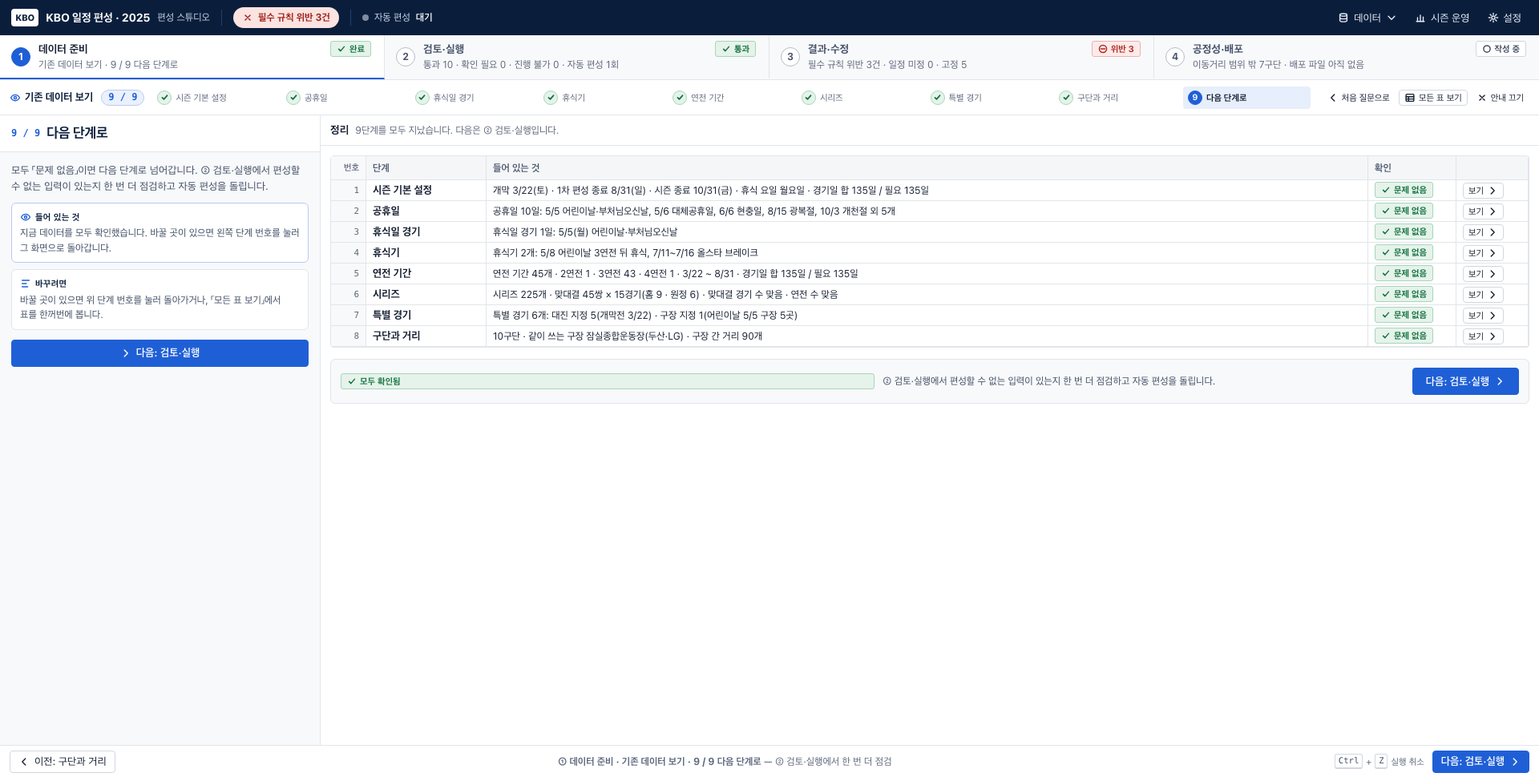
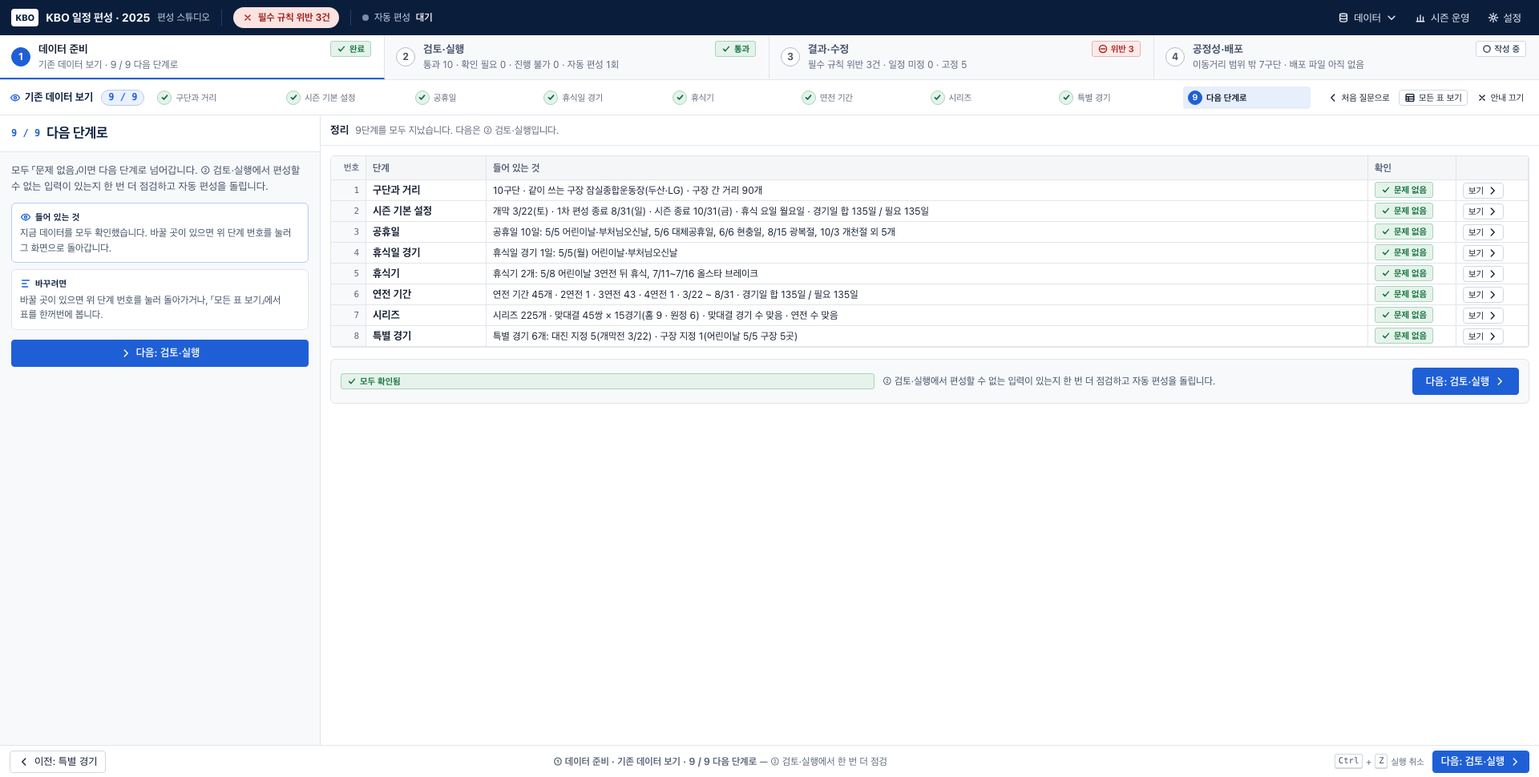
편성 스튜디오 ① 단계별 화면: 구단과 거리를 1단계로 옮기고, 카드에서 구단명·구장·위도·경도를 고친다.
- 순서: 구단과 거리(구장이 바뀌었는지 먼저 확인) → 시즌 기본 설정 → 공휴일 → 휴식일 경기 → 휴식기 → 연전 기간 → 시리즈 → 특별 경기 → 다음. 다른 단계가 구단 표에 기대지 않고, 잠실 공사처럼 구장이 바뀌는 해에는 거리를 먼저 고쳐야 한다.
- 구단과 거리 카드: 표에서 구단을 누르면 구단명·구장·위도·경도 칸과 다른 구장까지 거리(추정 표시). 위도·경도를 바꾸면 그 구단의 거리를 직선거리로 다시 추정한다(숫자가 아니면 거부).
- 자가 점검 번호·routes.txt g-new/g-view 이름을 새 순서로 맞춤. selftest 1440·1920 ALL PASS 130.

diff --git a/ui/app/studio/guide-steps.js b/ui/app/studio/guide-steps.js
@@ -3,7 +3,7 @@
  * ①에 들어오면 먼저 묻는다: 「데이터를 새로 입력할게요」 / 「기존 데이터를 볼게요」. 그 밖의 것은 보이지 않는다.
  *  - 새로 입력: 표를 비우고(실행 취소 가능) 1단계부터. 한 화면에 그 단계의 표(또는 입력 칸)·짧은 설명·그 단계의 단추·「다음」만 보인다.
  *  - 기존 데이터 보기: 지금 데이터로 같은 순서의 1단계부터. 입력 대신 「이 표에 무엇이 들어 있는지 · 바꿀 거면 어디서」를 보여 준다.
- * 단계 순서는 S.GUIDE_TASKS(guide-base.js) 9개. 상단 스테퍼의 ①은 그대로 두고, ① 안에서 작은 단계로 넘긴다(위쪽 띠에 「3 / 9」, 아래 「다음」).
+ * 단계 순서는 S.GUIDE_TASKS(guide-base.js) 9개: 구단과 거리(구장이 바뀌었는지 먼저 확인) → 시즌 기본 설정 → 공휴일 → 휴식일 경기 → 휴식기 → 연전 기간 → 시리즈 → 특별 경기 → 다음. 상단 스테퍼의 ①은 그대로 두고, ① 안에서 작은 단계로 넘긴다(위쪽 띠에 「3 / 9」, 아래 「다음」).
  * 전문가용: 「모든 표 보기」(지금까지의 ① 전체 화면: 가져오기 띠·왼콍 목록·오른쪽 자세히)로 언제든 갈 수 있고, 단계별 안내는 「안내 끄기」로 끌 수 있다(저장 S.ls).
  * 주소: #step=1&g=ask | g=new&gs=3 | g=view&gs=3 | g=all. 예전 주소 #step=1&tab=… 는 그대로 그 표(모든 표 보기)를 연다.
  */
@@ -96,7 +96,20 @@
     const off = S.guidePairOff();
     return line('맞대결 경기 수', '모두 ' + st.settings.initialGamesPerPair + '경기여야 함', off ? S.stat('warn', off + '곳 다름') : S.stat('ok', '맞음'));
   }
+  /** 구단과 거리 단계: 표에서 고른 구단의 구단명·구장·위도·경도를 카드에서 고친다 */
+  function teamEditor() {
+    const st = app().state, i = S.ui.cell && S.ui.cell.sheet === 'teams' ? S.ui.cell.row : -1;
+    if (i < 0 || !st.teams[i]) return '<div class="gs-sub">고치기</div><div class="gs-hint">표에서 구단을 누르면 여기서 구단명·구장·위도·경도를 고칩니다. 구장이 바뀌지 않았으면 그대로 「다음」을 누릅니다.</div>';
+    const t = st.teams[i];
+    const inp = (k, label, v) => '<label class="field"><span>' + esc(label) + '</span><input class="input sm" data-in="team-field" data-row="' + i + '" data-k="' + k + '" value="' + esc(v) + '" aria-label="' + esc(t.name + ' ' + label) + '"></label>';
+    const others = st.teams.filter((x) => x.name !== t.name).map((x) => { const d = app().distanceOf(t.name, x.name) || {}; return { n: x.name, d: d.distance, est: !!d.estimated }; }).sort((a, b) => a.d - b.d);
+    return '<div class="gs-sub">고치기 <small>' + esc(t.name) + '</small></div>' +
+      '<div class="gs-form gs-team"><div class="gs-form-row">' + inp('name', '구단명', t.name) + inp('stadium', '구장', t.stadium) + '</div><div class="gs-form-row">' + inp('latitude', '위도', t.latitude.toFixed(4)) + inp('longitude', '경도', t.longitude.toFixed(4)) + '</div></div>' +
+      '<div class="gs-hint">적고 Enter를 누르면 바로 반영됩니다. 위도·경도를 바꾸면 이 구단의 구장 간 거리를 직선거리로 다시 추정합니다.</div>' +
+      '<div class="gs-sub">다른 구장까지 거리 <small>km</small></div>' + others.map((o) => '<div class="gs-line gs-dist">' + S.team(o.n) + '<span class="gs-v mono">' + fmt.km(o.d) + (o.est ? ' <span class="tag ref" title="직선거리 × 도로계수로 추정한 값">추정</span>' : '') + '</span></div>').join('');
+  }
   const EXTRA = {
+    teams: () => teamEditor(),
     season: () => gameDaysLine(),
     blackouts: () => gameDaysLine(),
     slots: () => { const st = app().state; return st.calendar.length ? '<div class="gs-sub">연전 수 맞추기 <small>연전 기간마다 ' + (st.teams.length >> 1) + '시리즈</small></div>' + balanceLines() + (st.matches.length ? '' : '<div class="gs-hint">시리즈를 아직 안 만들었으면 「여유」로 보이는 게 정상입니다. 다음 단계에서 시리즈를 만들면 모두 「맞음」이 됩니다.</div>') : gameDaysLine(); },
@@ -253,70 +266,86 @@
       const noExtras = () => !q('.band') && !q('.pane.list') && !q('.pane.insp') && !q('.insp-rail');
       // 주소 글자: 자가 점검은 렌더가 많아 브라우저가 history.replaceState를 잠시 막을 수 있으므로 location.hash 대신 적을 값을 본다
       const hashOf = () => { const o = { step: 1, tab: S.ui.tab }; S.g1Hash(o); return Object.keys(o).map((k) => k + '=' + o[k]).join('&'); };
+      const I = (id) => indexOf(id);
       // 0. 주소에 표가 적혀 있으면 모든 표 보기(기존 주소 호환)
       ok('단계별: 주소 #step=1&tab=… 는 지금까지의 ① 전체 화면(모든 표 보기)', G.mode === 'all' && !!q('.band') && !!q('.pane.list') && !!q('.band [data-act="g1-steps"]'));
+      ok('단계별: 순서 = 구단과 거리 → 시즌 기본 설정 → 공휴일 → 휴식일 경기 → 휴식기 → 연전 기간 → 시리즈 → 특별 경기 → 다음', tasks().map((t) => t.id).join(',') === 'teams,season,holidays,restex,blackouts,slots,series,events,next');
       // 1. 처음 방문: 묻는 화면 — 두 선택만
       store.reset(); G.mode = undefined; G.i = 1; S.go({ step: 1 });
       ok('단계별: 처음 방문 → 「어떻게 시작할까요?」 두 선택(새로 입력 / 기존 데이터 보기), 그 밖의 것은 없음', G.mode === null && qa('.gs-pick').length === 2 && !!q('.gs-pick[data-v="new"]') && !!q('.gs-pick[data-v="view"]') && noExtras() && !q('.gs-card') && /g=ask/.test(hashOf()) && /어떻게 시작할지/.test(q('.step[data-step="1"] .step-sum').textContent), 'mode ' + G.mode + ' · picks ' + qa('.gs-pick').length + ' · extras ' + !noExtras() + ' · hash ' + hashOf() + ' · sum ' + q('.step[data-step="1"] .step-sum').textContent);
-      // 2. 기존 데이터 보기 → 1 / 9 시즌 기본 설정 (예시 데이터 값 그대로)
+      // 2. 기존 데이터 보기 → 1 / 9 구단과 거리 → 2 시즌 기본 설정(예시 데이터 값 그대로)
       click('.gs-pick[data-v="view"]'); flush();
-      ok('단계별: 「기존 데이터를 볼게요」 → 1 / ' + N() + ' 시즌 기본 설정 · 2025 값 그대로 · 들어 있는 것/바꾸려면', G.mode === 'view' && G.i === 1 && !S.isBlank() && S.ui.tab === 'season' && card0().getAttribute('data-page') === 'season' && !!q('.gs-view') && !!q('.gs-edit') && /개막 3\/22\(토\)/.test(card0().textContent) && q('.form-grid input[data-k="seasonStart"]').value === fmt.date('2025-03-22') && noExtras() && !q('.season-subs') && /g=view&gs=1/.test(hashOf()), 'mode ' + G.mode + ' · i ' + G.i + ' · tab ' + S.ui.tab + ' · hash ' + hashOf());
-      ok('단계별: 보기 모드에는 자동 채우기 단추가 카드에 없음 · 위 띠 ' + N() + '칸 · 하단 「다음: 공휴일」', !q('.gs-card .gs-acts') && qa('.gs-steps li').length === N() && /다음: 공휴일/.test(q('.footer .btn.primary').textContent) && /1 \/ 9/.test(q('.gs-pos').textContent));
+      ok('단계별: 「기존 데이터를 볼게요」 → 1 / ' + N() + ' 구단과 거리 · 10구단 · 들어 있는 것/바꾸려면 · 표 안내', G.mode === 'view' && G.i === 1 && !S.isBlank() && S.ui.tab === 'teams' && card0().getAttribute('data-page') === 'teams' && !!q('.gs-view') && !!q('.gs-edit') && /10구단/.test(card0().textContent) && /구장이 바뀌었는지/.test(document.body.textContent) && !q('.gs-team') && noExtras() && /g=view&gs=1/.test(hashOf()), 'mode ' + G.mode + ' · i ' + G.i + ' · tab ' + S.ui.tab + ' · hash ' + hashOf());
+      click('.footer [data-act="g1-next"]'); flush();
+      ok('단계별: 다음 → 2 시즌 기본 설정 · 2025 값 그대로 · 요약 상자 없음 · 「다음: 공휴일」', G.i === I('season') && S.ui.tab === 'season' && /개막 3\/22\(토\)/.test(card0().textContent) && q('.form-grid input[data-k="seasonStart"]').value === fmt.date('2025-03-22') && !q('.season-subs') && !q('.gs-card .gs-acts') && qa('.gs-steps li').length === N() && /다음: 공휴일/.test(q('.footer .btn.primary').textContent) && /2 \/ 9/.test(q('.gs-pos').textContent));
       const order = [];
-      for (let k = 1; k < N(); k++) { click('.footer [data-act="g1-next"]'); flush(); order.push(S.ui.tab || 'next'); }
-      ok('단계별: 「다음」 ' + (N() - 1) + '번 → 공휴일·휴식일 경기·휴식기·연전 기간·시리즈·특별 경기·구단과 거리·정리 순서', order.join(',') === 'holidays,restex,blackouts,slots,series,events,teams,teams' && G.i === N() && !!q('.gs-sum') && qa('.gs-sum tbody tr').length === N() - 1 && /다음: 검토·실행/.test(q('.footer .btn.primary').textContent), order.join(','));
-      ok('단계별: 보기 모드 정리 표 — 모두 「문제 없음」', qa('.gs-sum tbody tr .st.ok').length === N() - 1);
+      for (let k = I('season'); k < N(); k++) { click('.footer [data-act="g1-next"]'); flush(); order.push(S.ui.tab); }
+      ok('단계별: 「다음」으로 공휴일·휴식일 경기·휴식기·연전 기간·시리즈·특별 경기·정리 순서', order.join(',') === 'holidays,restex,blackouts,slots,series,events,events' && G.i === N() && !!q('.gs-sum') && qa('.gs-sum tbody tr').length === N() - 1 && /다음: 검토·실행/.test(q('.footer .btn.primary').textContent), order.join(','));
+      ok('단계별: 보기 모드 정리 표 — 모두 「문제 없음」, 첫 줄이 구단과 거리', qa('.gs-sum tbody tr .st.ok').length === N() - 1 && /구단과 거리/.test(q('.gs-sum tbody tr').textContent));
       // 3. 모든 표 보기 ↔ 단계별로 보기(기억한 단계)
       click('.gs-strip [data-act="g1-all"]'); flush();
-      ok('단계별: 「모든 표 보기」 → 띠·목록·자세히가 있는 전체 화면, 표는 구단과 거리', G.mode === 'all' && !!q('.band') && !!q('.pane.list') && S.ui.tab === 'teams' && !q('.gs-card') && /tab=teams/.test(hashOf()) && !/g=/.test(hashOf()), 'mode ' + G.mode + ' · tab ' + S.ui.tab + ' · hash ' + hashOf());
+      ok('단계별: 「모든 표 보기」 → 띠·목록·자세히가 있는 전체 화면, 표는 특별 경기', G.mode === 'all' && !!q('.band') && !!q('.pane.list') && S.ui.tab === 'events' && !q('.gs-card') && /tab=events/.test(hashOf()) && !/g=/.test(hashOf()), 'mode ' + G.mode + ' · tab ' + S.ui.tab + ' · hash ' + hashOf());
       click('.band [data-act="g1-steps"]'); flush();
       ok('단계별: 띠 「단계별로 보기」 → 기억한 단계(' + N() + ' / ' + N() + ')로', G.mode === 'view' && G.i === N() && !!q('.gs-sum'));
-      // 4. 처음 질문으로 → 새로 입력 → 표 비움(확인 창 없이, 실행 취소 가능) → 1단계
+      // 4. 처음 질문으로 → 새로 입력 → 표 비움(확인 창 없이, 실행 취소 가능) → 1 구단과 거리
       click('.gs-strip [data-act="g1-ask"]'); flush();
       ok('단계별: 「처음 질문으로」 → 두 선택 + 「이어서 할게요」', G.mode === null && qa('.gs-pick').length === 2 && !!q('[data-act="g1-resume"]') && /이어서/.test(q('[data-act="g1-resume"]').textContent));
       click('.gs-pick[data-v="new"]'); flush();
-      ok('단계별: 「데이터를 새로 입력할게요」 → 확인 창 없이 표를 비우고 1 / ' + N() + ' 시즌 기본 설정 · 날짜 칸 3개 비어 있음 · 비웠다는 안내', G.mode === 'new' && G.i === 1 && S.isBlank() && !S.ui.modal && S.ui.tab === 'season' && card0().getAttribute('data-status') === 'todo' && qa('.form-grid input[data-k]').length === 3 && Array.from(qa('.form-grid input[data-k]')).every((i) => i.value === '') && /비웠습니다/.test(card0().textContent) && !!q('.gs-how') && noExtras());
+      ok('단계별: 「데이터를 새로 입력할게요」 → 확인 창 없이 표를 비우고 1 / ' + N() + ' 구단과 거리(남아 있음) · 비웠다는 안내 · 어떻게', G.mode === 'new' && G.i === 1 && S.isBlank() && !S.ui.modal && S.ui.tab === 'teams' && st().teams.length === 10 && /비웠습니다/.test(card0().textContent) && !!q('.gs-how') && noExtras());
       app().undo(); flush();
       const undone = !S.isBlank() && st().calendar.length === 45 && G.mode === 'new';
       app().redo(); flush();
       ok('단계별: 새로 입력의 비움은 실행 취소·다시 실행이 됨', undone && S.isBlank());
+      // 구단 고치기: 표에서 구단을 누르면 카드에 칸 4개, 구장·위도를 바꾸면 거리가 추정값으로
+      const li = st().teams.findIndex((t) => t.name === 'LG');
+      click('.pane.main [data-act="team-sel"][data-row="' + li + '"]'); flush();
+      ok('단계별: 표에서 LG를 누르면 카드에 구단명·구장·위도·경도 칸과 거리 9줄', qa('.gs-card .gs-team input[data-in="team-field"]').length === 4 && qa('.gs-card .gs-dist').length === 9);
+      const putT = (k, v) => { const i = q('.gs-card input[data-in="team-field"][data-k="' + k + '"]'); i.value = v; i.dispatchEvent(new Event('change', { bubbles: true })); flush(); };
+      const est0 = st().distanceMatrix.filter((d) => d.estimated).length;
+      putT('stadium', '고척스카이돔(임시)'); putT('latitude', '37.4982');
+      const moved = st().teams[li].stadium === '고척스카이돔(임시)' && st().teams[li].latitude === 37.4982 && st().distanceMatrix.filter((d) => d.estimated && (d.from === 'LG' || d.to === 'LG')).length === 18 && qa('.gs-card .gs-dist .tag').length === 9 && /추정 거리 18개/.test(card0().textContent);
+      putT('latitude', '위도?');
+      const rejected = st().teams[li].latitude === 37.4982;
+      app().undo(); app().undo(); flush();
+      ok('단계별: 구장·위도 바꾸기 → 반영 · LG 거리 18개 추정 · 잘못된 숫자는 거부 · 실행 취소로 복귀', moved && rejected && st().teams[li].latitude !== 37.4982 && st().distanceMatrix.filter((d) => d.estimated).length === est0 && !q('.gs-card .gs-dist .tag'), 'moved ' + moved + ' · rejected ' + rejected + ' · est ' + st().distanceMatrix.filter((d) => d.estimated).length);
+      click('.footer [data-act="g1-next"]'); flush();
+      ok('단계별: 다음 → 2 시즌 기본 설정 · 날짜 칸 3개 비어 있음 · 「아직」', G.i === I('season') && S.ui.tab === 'season' && card0().getAttribute('data-status') === 'todo' && qa('.form-grid input[data-k]').length === 3 && Array.from(qa('.form-grid input[data-k]')).every((i) => i.value === '') && !!q('.gs-how'));
       const put = (k, v) => { const i = q('.form-grid input[data-k="' + k + '"]'); i.value = v; i.dispatchEvent(new Event('change', { bubbles: true })); flush(); };
       put('seasonStart', '2025-03-22'); put('initialEnd', '8/31'); put('seasonEnd', '2025-10-31');
       ok('단계별: 날짜 3개 입력 → 카드에 경기일 합 140 / 135 「5일 많음」', st().settings.initialEnd === '2025-08-31' && /140일 \/ 필요 135일/.test(card0().textContent) && /5일 많음/.test(card0().textContent) && card0().getAttribute('data-status') === 'warn');
       click('.footer [data-act="g1-next"]'); flush();
-      ok('단계별: 다음 → 2 공휴일 · 빈 표 · 카드에 「법정 공휴일 채우기」만', G.i === 2 && S.ui.tab === 'holidays' && !!q('.sheet-empty') && qa('.gs-card .gs-acts .btn').length === 1 && !!q('.gs-card .gs-acts [data-act="fill-holidays"]') && !q('.toolbar [data-act="fill-holidays"]'));
+      ok('단계별: 다음 → 3 공휴일 · 빈 표 · 카드에 「법정 공휴일 채우기」만', G.i === I('holidays') && S.ui.tab === 'holidays' && !!q('.sheet-empty') && qa('.gs-card .gs-acts .btn').length === 1 && !!q('.gs-card .gs-acts [data-act="fill-holidays"]') && !q('.toolbar [data-act="fill-holidays"]'));
       click('.gs-card .gs-acts [data-act="fill-holidays"]'); flush();
-      ok('단계별: 법정 공휴일 채우기 → 10일 · 같은 단계 · 「됨」', st().settings.holidays.length === 10 && G.i === 2 && card0().getAttribute('data-status') === 'ok');
+      ok('단계별: 법정 공휴일 채우기 → 10일 · 같은 단계 · 「됨」', st().settings.holidays.length === 10 && G.i === I('holidays') && card0().getAttribute('data-status') === 'ok');
       click('.footer [data-act="g1-next"]'); flush();
-      ok('단계별: 3 휴식일 경기 — 표 하나·첫 줄 추가', G.i === 3 && S.ui.tab === 'restex' && !!q('.sheet-empty [data-act="row-ins"]') && !q('.gs-card .gs-acts'));
+      ok('단계별: 4 휴식일 경기 — 표 하나·첫 줄 추가', G.i === I('restex') && S.ui.tab === 'restex' && !!q('.sheet-empty [data-act="row-ins"]') && !q('.gs-card .gs-acts'));
       click('.sheet-empty [data-act="row-ins"]'); flush(); enter('restex', 0, 'date', '5/5');
       click('.footer [data-act="g1-next"]'); flush();
-      ok('단계별: 4 휴식기 — 경기일 합 안내(5일 많음 → 휴식기로 빼기)', G.i === 4 && S.ui.tab === 'blackouts' && /휴식기로 6일을 빼세요/.test(card0().textContent), card0().textContent.slice(0, 160));
+      ok('단계별: 5 휴식기 — 경기일 합 안내(6일 많음 → 휴식기로 빼기)', G.i === I('blackouts') && S.ui.tab === 'blackouts' && /휴식기로 6일을 빼세요/.test(card0().textContent), card0().textContent.slice(0, 160));
       click('.sheet-empty [data-act="row-ins"]'); flush(); enter('blackouts', 0, 'start', '5/8'); enter('blackouts', 0, 'end', '5/8'); enter('blackouts', 0, 'name', '어린이날 3연전 뒤 휴식');
       S.ui.cell = null; flush(); click('.toolbar [data-act="row-ins"][data-pos="below"]'); flush(); enter('blackouts', 1, 'start', '7/11'); enter('blackouts', 1, 'end', '7/16'); enter('blackouts', 1, 'name', '올스타 브레이크');
       ok('단계별: 휴식기 2개 → 경기일 합 135 / 135 맞음 · 「됨」', st().settings.blackouts.length === 2 && /135일 \/ 필요 135일/.test(card0().textContent) && card0().getAttribute('data-status') === 'ok');
       click('.footer [data-act="g1-next"]'); flush();
-      ok('단계별: 5 연전 기간 · 「아직」 · 카드의 「규칙대로 자동 채우기」', G.i === 5 && S.ui.tab === 'slots' && card0().getAttribute('data-status') === 'todo' && !!q('.gs-card .gs-acts [data-act="draft-slots"]'));
+      ok('단계별: 6 연전 기간 · 「아직」 · 카드의 「규칙대로 자동 채우기」', G.i === I('slots') && S.ui.tab === 'slots' && card0().getAttribute('data-status') === 'todo' && !!q('.gs-card .gs-acts [data-act="draft-slots"]'));
       click('.gs-card .gs-acts [data-act="draft-slots"]'); flush();
       const previewOpen = S.ui.modal === 'import' && S.ui.imp && S.ui.imp.kind === 'draft-slots';
       click('.modal [data-act="imp-apply"]'); flush();
-      ok('단계별: 자동 채우기 → 미리보기 → 적용 → 45개 · 같은 단계 「됨」 · 연전 수 「여유」 안내', previewOpen && !S.ui.modal && st().calendar.length === 45 && G.i === 5 && card0().getAttribute('data-status') === 'ok' && /여유/.test(card0().textContent));
+      ok('단계별: 자동 채우기 → 미리보기 → 적용 → 45개 · 같은 단계 「됨」 · 연전 수 「여유」 안내', previewOpen && !S.ui.modal && st().calendar.length === 45 && G.i === I('slots') && card0().getAttribute('data-status') === 'ok' && /여유/.test(card0().textContent));
       click('.footer [data-act="g1-next"]'); flush();
       click('.gs-card .gs-acts [data-act="draft-series"]'); flush();
       click('.modal [data-act="imp-apply"]'); flush();
-      ok('단계별: 6 시리즈 → 자동 채우기 → 225개 · 맞대결 경기 수·연전 수 모두 「맞음」', G.i === 6 && st().matches.length === 225 && card0().getAttribute('data-status') === 'ok' && (card0().textContent.match(/맞음/g) || []).length >= 4);
+      ok('단계별: 7 시리즈 → 자동 채우기 → 225개 · 맞대결 경기 수·연전 수 모두 「맞음」', G.i === I('series') && st().matches.length === 225 && card0().getAttribute('data-status') === 'ok' && (card0().textContent.match(/맞음/g) || []).length >= 4);
       click('.footer [data-act="g1-next"]'); flush();
       click('.gs-card .gs-acts [data-act="add-opening"]'); flush();
       click('.gs-card .gs-acts [data-act="add-children"]'); flush();
-      ok('단계별: 7 특별 경기 → 개막전 5·어린이날 1 · 「됨」', G.i === 7 && S.ui.tab === 'events' && st().events.length === 6 && card0().getAttribute('data-status') === 'ok');
-      click('.footer [data-act="g1-next"]'); flush();
-      ok('단계별: 8 구단과 거리(그대로) · 구단 10', G.i === 8 && S.ui.tab === 'teams' && /10구단/.test(card0().textContent));
+      ok('단계별: 8 특별 경기 → 개막전 5·어린이날 1 · 「됨」', G.i === I('events') && S.ui.tab === 'events' && st().events.length === 6 && card0().getAttribute('data-status') === 'ok');
       click('.footer [data-act="g1-next"]'); flush();
       ok('단계별: 9 정리 — 8단계 모두 「문제 없음」 · 「다음: 검토·실행」 · 사전 점검 진행 불가 0', G.i === N() && qa('.gs-sum tbody tr .st.ok').length === N() - 1 && !!q('.gs-next-foot [data-act="go-step"][data-step="2"]') && app().preflight().counts.block === 0);
-      // 모든 단계가 화면 안 · 페이지 스크롤 0 (새로 입력·기존 보기 둘 다)
+      // 모든 단계가 화면 안 · 페이지 스크롤 0 (새로 입력·기존 보기 둘 다, 구단 고른 채로도)
       const bad = [];
       for (const m of ['new', 'view']) for (let k = 1; k <= N(); k++) {
         G.mode = m; show(k);
+        if (k === 1) { S.ui.cell = { sheet: 'teams', row: 0, col: 'name' }; flush(); }
         const c = card0(), r = c && c.getBoundingClientRect(), sc = S.checkScroll();
         if (!r || r.left < 0 || r.top < 0 || r.right > window.innerWidth || r.bottom > window.innerHeight || !sc.ok || !noExtras() || !q('.pane.main') || qa('.gs-steps li.on').length !== 1) bad.push(m + k + (sc.ok ? '' : ':scroll'));
       }
@@ -328,7 +357,7 @@
       click('.step[data-step="1"]'); flush();
       ok('단계별: ①로 돌아오면 하던 단계(' + N() + ' / ' + N() + ') 그대로', G.mode === 'new' && G.i === N() && !!q('.gs-sum'));
       S.navTarget('slots'); flush();
-      ok('단계별: 사전 점검 「입력 위치로」 → 그 표의 단계(5 연전 기간)', G.mode === 'new' && G.i === 5 && S.ui.tab === 'slots' && !!card0());
+      ok('단계별: 사전 점검 「입력 위치로」 → 그 표의 단계(6 연전 기간)', G.mode === 'new' && G.i === I('slots') && S.ui.tab === 'slots' && !!card0());
       // 6. 안내 끄기 → 모든 표 보기 · 저장 · 띠 「단계별 안내 켜기」 · 처음 방문처럼 열어도 묻지 않음
       click('.gs-strip [data-act="g1-off"]'); flush();
       let savedOff = null; try { savedOff = JSON.parse(localStorage.getItem(S.KEY + 'guide-steps')).off; } catch (e) { savedOff = null; }
@@ -341,9 +370,9 @@
       ok('단계별: 빈 상태에서는 「2025 예시 데이터를 볼게요」', /2025 예시 데이터/.test(q('.gs-pick[data-v="view"]').textContent) && /비어 있고/.test(q('.gs-ask-now').textContent));
       click('.gs-pick[data-v="view"]'); flush();
       ok('단계별: → 2025 예시 데이터를 불러와 기존 데이터 보기 1단계', G.mode === 'view' && G.i === 1 && !S.isBlank() && st().calendar.length === 45);
-      // 8. 주소 g=new&gs=3 · guide=1(예전 키) → 묻는 화면
+      // 8. 주소 g=new&gs=3 · guide=1(예전 키) → 묻는 화면 · tab= → 모든 표 보기
       S.g1Route({ g: 'new', gs: '3' }); S.render();
-      ok('단계별: 주소 g=new&gs=3 → 새로 입력 3 / ' + N() + ' 휴식일 경기', G.mode === 'new' && G.i === 3 && S.ui.tab === 'restex');
+      ok('단계별: 주소 g=new&gs=3 → 새로 입력 3 / ' + N() + ' 공휴일', G.mode === 'new' && G.i === 3 && S.ui.tab === 'holidays');
       S.g1Route({ guide: '1' }); S.render();
       ok('단계별: 예전 주소 guide=1 → 묻는 화면', G.mode === null && qa('.gs-pick').length === 2);
       S.g1Route({ tab: 'series', step: '1' }); S.ui.tab = 'series'; S.render();

diff --git a/ui/app/studio/guide-base.js b/ui/app/studio/guide-base.js
@@ -4,7 +4,9 @@
  * 보여 주는 방식(단계별 화면 등)은 guide-*.js가 S.guideUI로 정한다.
  *
  * 할 일 순서는 「새로 입력」과 「기존 데이터 보기」가 같다:
- *   시즌 기본 설정 → 공휴일 → 휴식일 경기 → 휴식기 → 연전 기간(자동 채우기) → 시리즈(자동 채우기) → 특별 경기(개막전·어린이날) → 구단과 거리 → 다음 단계.
+ *   구단과 거리(구장이 바뀌었는지 먼저 확인) → 시즌 기본 설정 → 공휴일 → 휴식일 경기 → 휴식기 → 연전 기간(자동 채우기) → 시리즈(자동 채우기) → 특별 경기(개막전·어린이날) → 다음 단계.
+ * 구단과 거리가 맨 앞인 이유: 다른 단계가 이 표에 기대지 않아 어디에 두어도 되고, 가장 이해하기 쉬운 정보라 시작으로 알맞다.
+ *   구장이 바뀌는 해(잠실 공사 등)에는 거리가 달라지므로 시리즈·공정성보다 먼저 고쳐야 한다.
  * 공휴일·휴식일 경기·휴식기는 표가 셋이라 「한 화면에 하나」를 지키기 위해 세 할 일로 나눴다(각각 표 하나, 설명 한 줄, 단추 하나).
  * 할 일마다: title·why(왜) · how(새로 입력할 때 하는 법) · view(기존 데이터에 무엇이 들어 있는지) · edit(바꿀 거면 어디서) · acts(누를 단추) · status(데이터로 판단).
  * 문구는 함수여도 되고 글자여도 된다. S.gtxt()로 읽는다.
@@ -61,6 +63,15 @@
   const gameDays = () => { const s = set(); if (!s.seasonStart || !s.initialEnd) return null; return S.gameDaysCheck(CalendarGen.generateSlots(s).slots); };
   const restDays = () => (set().restWeekdays.length ? set().restWeekdays.map((k) => WD[k] + '요일').join('·') : '없음');
   S.GUIDE_TASKS = [
+    {
+      id: 'teams', tab: 'teams', title: '구단과 거리', short: '구장이 바뀌었는지 먼저 확인',
+      why: '구단과 구장 위치, 구장 사이 거리입니다. 이동거리는 이 표로 계산합니다. 구장이 바뀌는 해(예: 잠실 공사로 임시 구장을 쓸 때)에는 여기부터 고쳐야 뒤의 시리즈·공정성 계산이 맞습니다. 「새로 입력」으로 비워도 남는 표입니다.',
+      how: '구장이 바뀌었는지 먼저 확인합니다. 바뀐 구단이 있으면 표에서 그 구단을 누르고 이 카드에서 구단명·구장·위도·경도를 고칩니다. 위치를 바꾸면 그 구단의 거리는 직선거리로 다시 추정합니다. 그대로면 「다음」을 누릅니다.',
+      view: () => { const st = app().state, sh = Array.from(app().sharedStadiums().entries()); const est = st.distanceMatrix.filter((d) => d.estimated).length; return st.teams.length + '구단 · ' + (sh.length ? '같이 쓰는 구장 ' + sh.map(([k, v]) => k + '(' + v.join('·') + ')').join(', ') : '같이 쓰는 구장 없음') + ' · 구장 간 거리 ' + st.teams.length * (st.teams.length - 1) + '개' + (est ? ' (추정 ' + est + '개)' : ''); },
+      edit: '표에서 구단을 누르면 이 카드에서 구단명·구장·위도·경도를 고칩니다. 구장 위치를 바꾸면 그 구단의 거리는 직선거리로 다시 추정합니다. 아래 「구장 간 거리표」에서 거리를 확인합니다.',
+      acts: () => [],
+      status: () => { const st = app().state; const est = st.distanceMatrix.filter((d) => d.estimated).length; return res('ok', st.teams.length + '구단 · 같이 쓰는 구장 ' + app().sharedStadiums().size + (est ? ' · 추정 거리 ' + est + '개' : '')); }
+    },
     {
       id: 'season', tab: 'season', title: '시즌 기본 설정', short: '개막일·종료일·휴식 요일',
       why: '시즌이 언제 시작하고 끝나는지, 어느 요일에 쉬는지 정합니다. 연전 기간은 이 설정대로 만들어집니다.',
@@ -169,19 +180,10 @@
       }
     },
     {
-      id: 'teams', tab: 'teams', title: '구단과 거리', short: '구단·구장 위치 (보통 그대로)',
-      why: '구단과 구장 위치, 구장 사이 거리입니다. 이동거리를 계산할 때 씁니다. 「새로 입력」으로 비워도 남겨 두는 표입니다 — KBO 10구단은 거의 바뀌지 않습니다.',
-      how: '그대로 두면 됩니다. 구단 이름이나 구장이 바뀌었을 때만 고칩니다. 아래 「구장 간 거리표」를 펼치면 구장 사이 거리를 볼 수 있습니다.',
-      view: () => { const st = app().state, sh = Array.from(app().sharedStadiums().entries()); return st.teams.length + '구단 · ' + (sh.length ? '같이 쓰는 구장 ' + sh.map(([k, v]) => k + '(' + (Array.isArray(v) ? v.join('·') : Array.from(v || []).join('·')) + ')').join(', ') : '같이 쓰는 구장 없음') + ' · 구장 간 거리 ' + st.teams.length * (st.teams.length - 1) + '개'; },
-      edit: '구단 이름과 구장은 「모든 표 보기」의 구단과 거리 화면에서 구단을 고르면 오른쪽 칸에서 고칠 수 있습니다. 거리는 아래 「구장 간 거리표」에서 봅니다.',
-      acts: () => [],
-      status: () => res('ok', app().state.teams.length + '구단 · 같이 쓰는 구장 ' + app().sharedStadiums().size)
-    },
-    {
       id: 'next', tab: null, title: '다음 단계로', short: '② 검토·실행에서 한 번 더 점검',
       why: '모두 「문제 없음」이면 다음 단계로 넘어갑니다. ② 검토·실행에서 편성할 수 없는 입력이 있는지 한 번 더 점검하고 자동 편성을 돌립니다.',
       how: '「다음: 검토·실행」을 누릅니다. 입력은 언제든 ①로 돌아와 고칠 수 있습니다.',
-      view: '지금 데이터를 모두 확인했습니다. 바꿀 곳이 있으면 왼쪽 단계 번호를 눌러 그 화면으로 돌아갑니다.',
+      view: '지금 데이터를 모두 확인했습니다. 바꿀 곳이 있으면 위 단계 번호를 눌러 그 화면으로 돌아갑니다.',
       edit: '바꿀 곳이 있으면 위 단계 번호를 눌러 돌아가거나, 「모든 표 보기」에서 표를 한꺼번에 봅니다.',
       acts: () => [{ act: 'go-step', step: 2, label: '다음: 검토·실행', icon: 'right', primary: true }],
       status: () => { const bad = S.GUIDE_TASKS.filter((t) => t.id !== 'next' && !t.status().ok); return res(bad.length ? (bad.some((t) => !t.status().todo) ? 'warn' : 'todo') : 'ok', bad.length ? bad.map((t) => t.title).join(', ') + ' 남음' : '모두 확인됨 — 다음 단계로'); }

diff --git a/ui/app/studio/step-data.js b/ui/app/studio/step-data.js
@@ -411,7 +411,7 @@
     s += '<div class="blk"><table class="sheet"><colgroup><col style="width:44px"><col style="width:110px"><col><col style="width:86px"><col style="width:86px"></colgroup><thead><tr><th class="rn">#</th><th>구단</th><th>구장</th><th class="num">위도</th><th class="num">경도</th></tr></thead><tbody>' +
       st.teams.map((t, i) => {
         const sh = Array.from(shared.keys()).includes(t.stadium);
-        return '<tr class="' + (i === sel ? 'sel' : '') + '"><td class="rn">' + (i + 1) + '</td><td class="cell" data-act="team-sel" data-row="' + i + '">' + S.team(t.name) + '</td><td class="cell" data-act="team-sel" data-row="' + i + '">' + esc(t.stadium) + (sh ? ' <span class="tag shared">같이 쓰는 구장</span>' : '') + '</td><td class="num mono">' + t.latitude.toFixed(4) + '</td><td class="num mono">' + t.longitude.toFixed(4) + '</td></tr>';
+        return '<tr class="' + (i === sel ? 'sel' : '') + '"><td class="rn">' + (i + 1) + '</td><td class="cell" data-act="team-sel" data-row="' + i + '">' + S.team(t.name) + '</td><td class="cell" data-act="team-sel" data-row="' + i + '">' + esc(t.stadium) + (sh ? ' <span class="tag shared">같이 쓰는 구장</span>' : '') + '</td><td class="num mono cell" data-act="team-sel" data-row="' + i + '">' + t.latitude.toFixed(4) + '</td><td class="num mono cell" data-act="team-sel" data-row="' + i + '">' + t.longitude.toFixed(4) + '</td></tr>';
       }).join('') + '</tbody></table></div>';
     const markers = st.teams.map((t, i) => ({ id: t.name, lat: t.latitude, lon: t.longitude, x: 0, y: 0, color: t.color, label: t.name, size: i === sel ? 7 : 5, active: i === sel }));
     let mapSvg = '';
@@ -758,6 +758,13 @@
     if (locked()) return;
     const i = +el.dataset.row, k = el.dataset.k;
     if (!el.value.trim()) return;
+    if (k === 'latitude' || k === 'longitude') {
+      const v = Number(el.value.trim());
+      const okRange = Number.isFinite(v) && (k === 'latitude' ? v >= -90 && v <= 90 : v >= -180 && v <= 180);
+      if (!okRange) { el.classList.add('err'); S.toast((k === 'latitude' ? '위도' : '경도') + '는 숫자로 적습니다(예: ' + (k === 'latitude' ? '37.5122' : '127.0719') + ').', 'bad'); return; }
+      if (app().updateTeam(i, { [k]: v })) S.toast('구장 위치를 바꿨습니다. 이 구단의 구장 간 거리는 직선거리로 다시 추정했습니다. 실행 취소로 되돌릴 수 있습니다.', 'ok', 6000);
+      return;
+    }
     app().updateTeam(i, { [k]: el.value.trim() });
   };
 

diff --git a/ui/app/studio/studio.css b/ui/app/studio/studio.css
@@ -1176,6 +1176,11 @@ svg.mc text { font-family: var(--font); }
 .gs-status.warn { border-color: var(--warn-line); background: var(--warn-bg); color: #5C3700; }
 .gs-now { display: flex; gap: 6px; align-items: center; margin-top: 8px; padding: 5px 8px; border-radius: var(--r); border: 1px dashed var(--blue-line); font-size: var(--fs-s); color: var(--text-2); }
 .gs-now span { flex: 1; min-width: 0; }
+.gs-form { display: flex; flex-direction: column; gap: 6px; }
+.gs-form-row { display: grid; grid-template-columns: repeat(2, minmax(0, 1fr)); gap: 8px; }
+.gs-form .input { width: 100%; }
+.gs-line.gs-dist { min-height: 24px; padding: 2px 0; }
+.gs-line.gs-dist .tm { flex: 0 1 auto; }
 
 /* 마지막 단계: 정리 표 */
 .gs-sum td, .gs-sum th { white-space: normal; }
